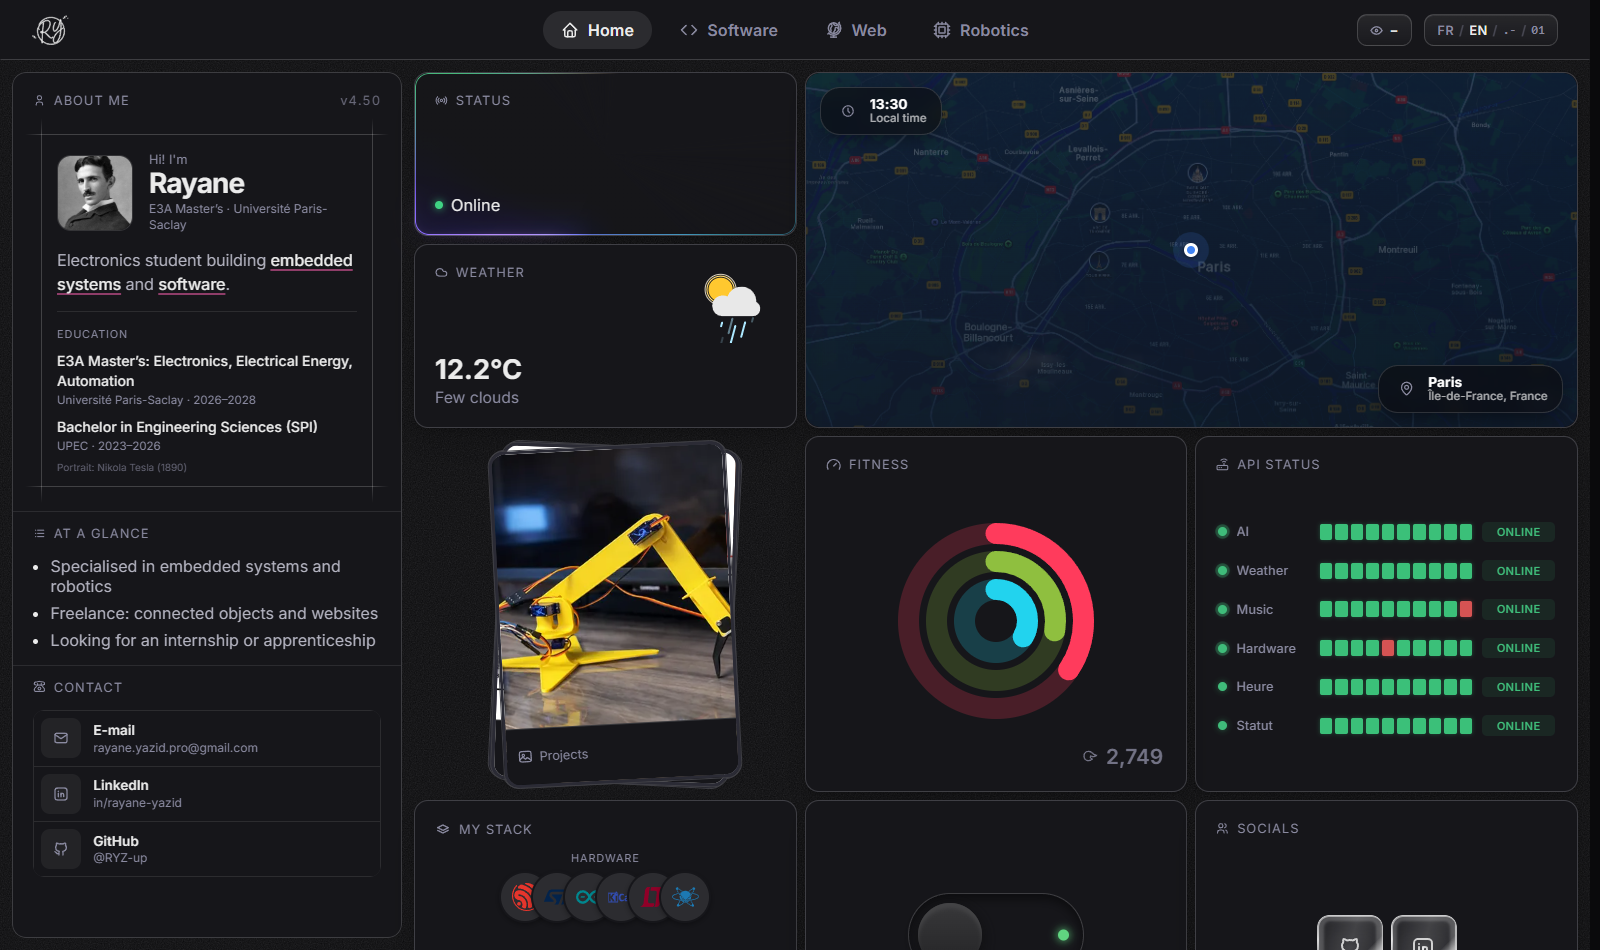
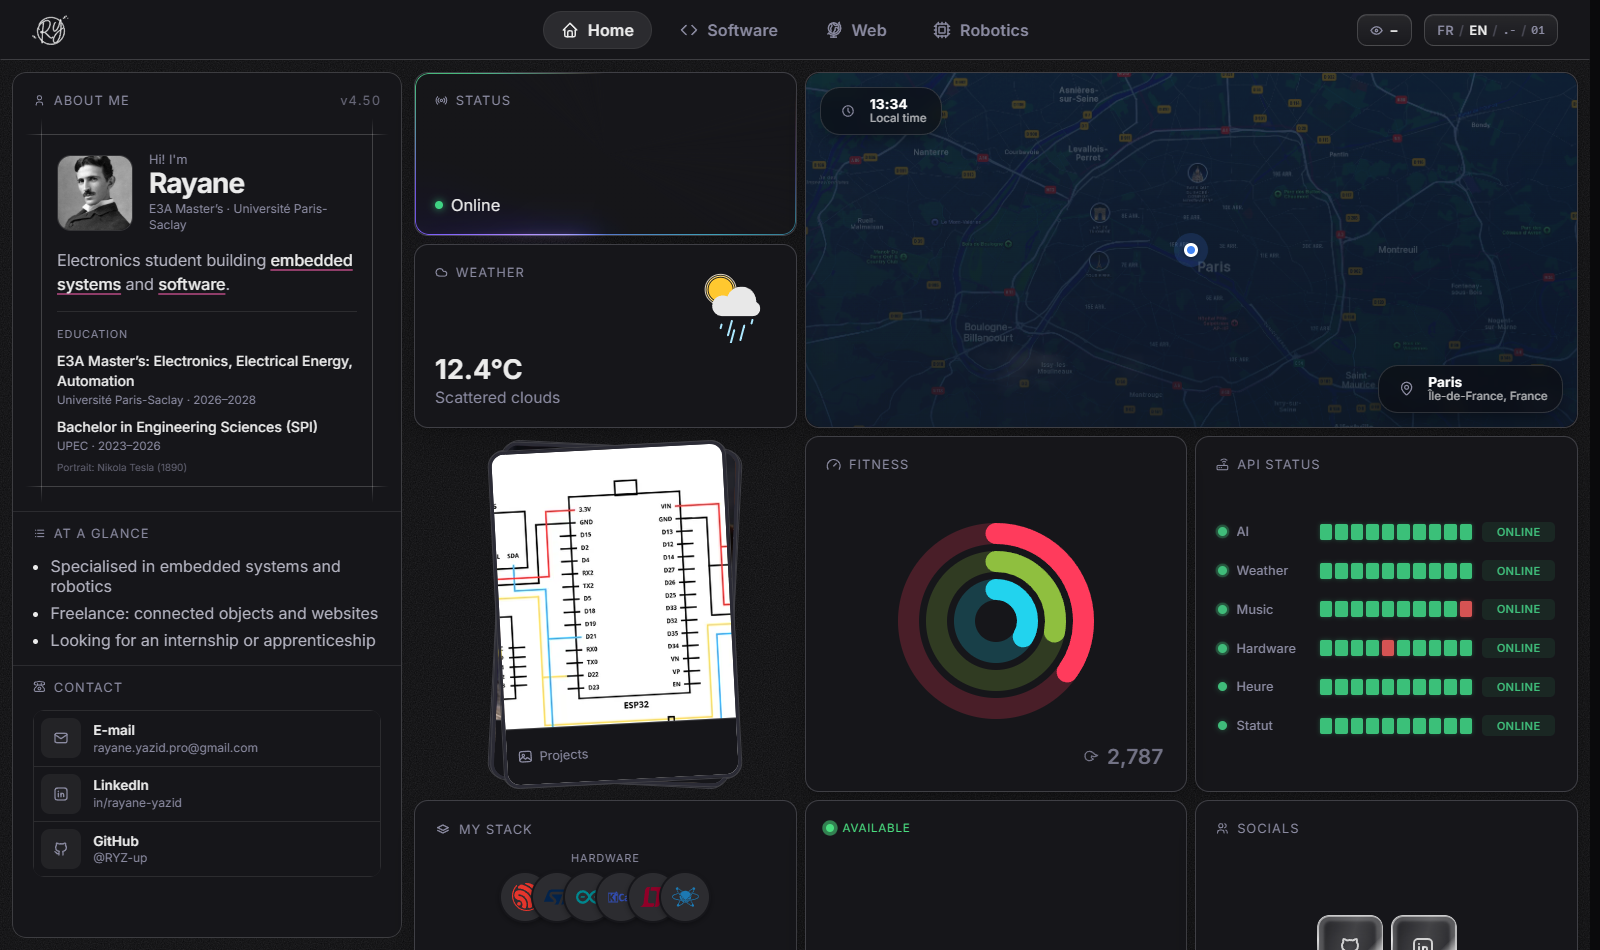
Nav: Gooey Nav on the desktop bar (sliding pill to the active page, gooey particle burst on click)

diff --git a/src/components/ui/GooeyNav/useGooey.js b/src/components/ui/GooeyNav/useGooey.js
@@ -1,0 +1,77 @@
+import { useCallback, useLayoutEffect, useRef } from 'react';
+
+// Gooey Nav (after the React Bits / RareUI component): a pill that slides to
+// the active item, and on click a burst of particles merged by an SVG "goo"
+// filter. Returns refs for the list, the pill and the particle layer, plus a
+// `burst(el)` to call from the click handler.
+// Position of `el` inside `list`, from their screen boxes (offsetLeft would be
+// relative to the item's own <li>). A transform on the list (the bar's layout
+// animation) moves both boxes alike, so the difference stays right.
+const boxIn = (el, list) => {
+  const a = el.getBoundingClientRect();
+  const b = list.getBoundingClientRect();
+  return { x: a.left - b.left, y: a.top - b.top, w: a.width, h: a.height };
+};
+
+export default function useGooey(activeKey) {
+  const listRef = useRef(null);
+  const pillRef = useRef(null);
+  const fxRef = useRef(null);
+
+  const place = useCallback(() => {
+    const list = listRef.current;
+    const pill = pillRef.current;
+    const el = list?.querySelector('[aria-current="page"]');
+    if (!pill) return;
+    if (!el) {
+      pill.style.opacity = '0';
+      return;
+    }
+    const r = boxIn(el, list);
+    pill.style.opacity = '1';
+    pill.style.transform = `translateX(${r.x}px)`;
+    pill.style.width = `${r.w}px`;
+    pill.style.height = `${r.h}px`;
+    pill.style.top = `${r.y}px`;
+  }, []);
+
+  useLayoutEffect(() => {
+    place();
+  }, [activeKey, place]);
+
+  useLayoutEffect(() => {
+    const list = listRef.current;
+    if (!list || typeof ResizeObserver === 'undefined') return undefined;
+    const ro = new ResizeObserver(place);
+    ro.observe(list);
+    document.fonts?.ready.then(place);
+    return () => ro.disconnect();
+  }, [place]);
+
+  const burst = useCallback(el => {
+    const fx = fxRef.current;
+    const list = listRef.current;
+    if (!fx || !list || !el) return;
+    if (window.matchMedia('(prefers-reduced-motion: reduce)').matches) return;
+    const r = boxIn(el, list);
+    const cx = r.x + r.w / 2;
+    const cy = r.y + r.h / 2;
+    const N = 14;
+    for (let i = 0; i < N; i++) {
+      const p = document.createElement('i');
+      const a = (Math.PI * 2 * i) / N + Math.random() * 0.4;
+      const d = 34 + Math.random() * 30;
+      p.className = 'gooey__particle';
+      p.style.left = `${cx}px`;
+      p.style.top = `${cy}px`;
+      p.style.setProperty('--dx', `${Math.cos(a) * d}px`);
+      p.style.setProperty('--dy', `${Math.sin(a) * d * 0.55}px`);
+      p.style.setProperty('--s', (0.5 + Math.random() * 0.8).toFixed(2));
+      p.style.animationDelay = `${Math.random() * 60}ms`;
+      fx.appendChild(p);
+      p.addEventListener('animationend', () => p.remove(), { once: true });
+    }
+  }, []);
+
+  return { listRef, pillRef, fxRef, burst, place };
+}

diff --git a/src/components/layout/Nav.jsx b/src/components/layout/Nav.jsx
@@ -8,6 +8,8 @@ import { useI18n } from '../../i18n/I18nProvider.jsx';
 import useVisitCount from '../../hooks/useVisitCount.js';
 import useIsMobile from '../../hooks/useIsMobile.js';
 import { PATHS } from '../../lib/routes.js';
+import useGooey from '../ui/GooeyNav/useGooey.js';
+import '../ui/GooeyNav/GooeyNav.css';
 import './Nav.css';
 
 const LINKS = [
@@ -68,6 +70,7 @@ export default function Nav({ view, centered, onNavigate }) {
 
   // The link of the page on screen; the home page never lights another one.
   const current = view;
+  const gooey = useGooey(current);
 
   const visitsPill = (
     <span className="bento-nav__visits" tabIndex={0} aria-label={t('nav.visits')}>
@@ -159,14 +162,19 @@ export default function Nav({ view, centered, onNavigate }) {
       <motion.a layout="position" layoutDependency={centered} transition={spring} href="/" className="bento-nav__logo" aria-label="Rayane Yazid" onClick={e => go(e, LINKS[0])}>
         <Logo />
       </motion.a>
-      <motion.ul layout="position" layoutDependency={centered} transition={{ ...spring, delay: reduce ? 0 : 0.05 }} className="bento-nav__links">
+      <motion.ul ref={gooey.listRef} layout="position" layoutDependency={centered} transition={{ ...spring, delay: reduce ? 0 : 0.05 }} className="bento-nav__links gooey" onLayoutAnimationComplete={gooey.place}>
+        <li className="gooey__pill" ref={gooey.pillRef} aria-hidden="true" />
+        <li className="gooey__fx" ref={gooey.fxRef} aria-hidden="true" />
         {LINKS.map(link => (
           <li key={link.id}>
             <a
               href={PATHS[link.id]}
               className={current === link.id ? 'is-active' : ''}
               aria-current={current === link.id ? 'page' : undefined}
-              onClick={e => go(e, link)}
+              onClick={e => {
+                if (link.id !== current) gooey.burst(e.currentTarget);
+                go(e, link);
+              }}
             >
               <link.Icon size={18} />
               <span className="bento-nav__link-label">{t(link.key)}</span>
@@ -174,6 +182,12 @@ export default function Nav({ view, centered, onNavigate }) {
           </li>
         ))}
       </motion.ul>
+      <svg className="gooey__svg" aria-hidden="true" focusable="false">
+        <filter id="gooey-filter">
+          <feGaussianBlur in="SourceGraphic" stdDeviation="5" result="blur" />
+          <feColorMatrix in="blur" values="1 0 0 0 0  0 1 0 0 0  0 0 1 0 0  0 0 0 20 -8" />
+        </filter>
+      </svg>
       <motion.div layout="position" layoutDependency={centered} transition={{ ...spring, delay: reduce ? 0 : 0.1 }} className="bento-nav__tools">
         {visitsPill}
         <LangSwitch />

diff --git a/src/components/ui/GooeyNav/GooeyNav.css b/src/components/ui/GooeyNav/GooeyNav.css
@@ -1,0 +1,72 @@
+/* Gooey Nav: the sliding pill and the particle burst (see useGooey.js). */
+.gooey {
+  position: relative;
+}
+
+.gooey > li:not(.gooey__pill):not(.gooey__fx) {
+  position: relative;
+  z-index: 2;
+}
+
+.gooey__pill {
+  position: absolute;
+  z-index: 1;
+  left: 0;
+  border-radius: 999px;
+  background: rgba(255, 255, 255, 0.09);
+  box-shadow: inset 0 0 0 1px rgba(255, 255, 255, 0.06);
+  pointer-events: none;
+  transition:
+    transform 0.55s cubic-bezier(0.34, 1.45, 0.64, 1),
+    width 0.55s cubic-bezier(0.34, 1.45, 0.64, 1),
+    opacity 0.2s ease;
+}
+
+/* Particles are blurred then given a hard alpha edge by the SVG filter, so
+   neighbouring blobs merge like liquid. */
+.gooey__fx {
+  position: absolute;
+  inset: -40px;
+  z-index: 0;
+  pointer-events: none;
+  filter: url(#gooey-filter);
+  transform: translate(40px, 40px);
+}
+
+.gooey__particle {
+  position: absolute;
+  width: 22px;
+  height: 22px;
+  margin: -11px 0 0 -11px;
+  border-radius: 50%;
+  background: var(--accent-pink, #e0569f);
+  animation: gooey-burst 0.75s cubic-bezier(0.2, 0.7, 0.3, 1) both;
+}
+
+.gooey__particle:nth-child(3n) {
+  background: var(--text);
+}
+
+@keyframes gooey-burst {
+  0% {
+    transform: translate(0, 0) scale(0);
+  }
+  35% {
+    transform: translate(var(--dx), var(--dy)) scale(var(--s));
+  }
+  100% {
+    transform: translate(calc(var(--dx) * 0.2), calc(var(--dy) * 0.2)) scale(0);
+  }
+}
+
+.gooey__svg {
+  position: absolute;
+  width: 0;
+  height: 0;
+}
+
+@media (prefers-reduced-motion: reduce) {
+  .gooey__pill {
+    transition: opacity 0.2s ease;
+  }
+}

diff --git a/src/components/layout/Nav.css b/src/components/layout/Nav.css
@@ -131,7 +131,8 @@
 
 .bento-nav__links a.is-active {
   color: var(--text);
-  background: rgba(255, 255, 255, 0.09);
+  /* The pill behind it is the sliding .gooey__pill (GooeyNav.css). */
+  background: transparent;
 }
 
 .bento-nav__links a:focus-visible {
